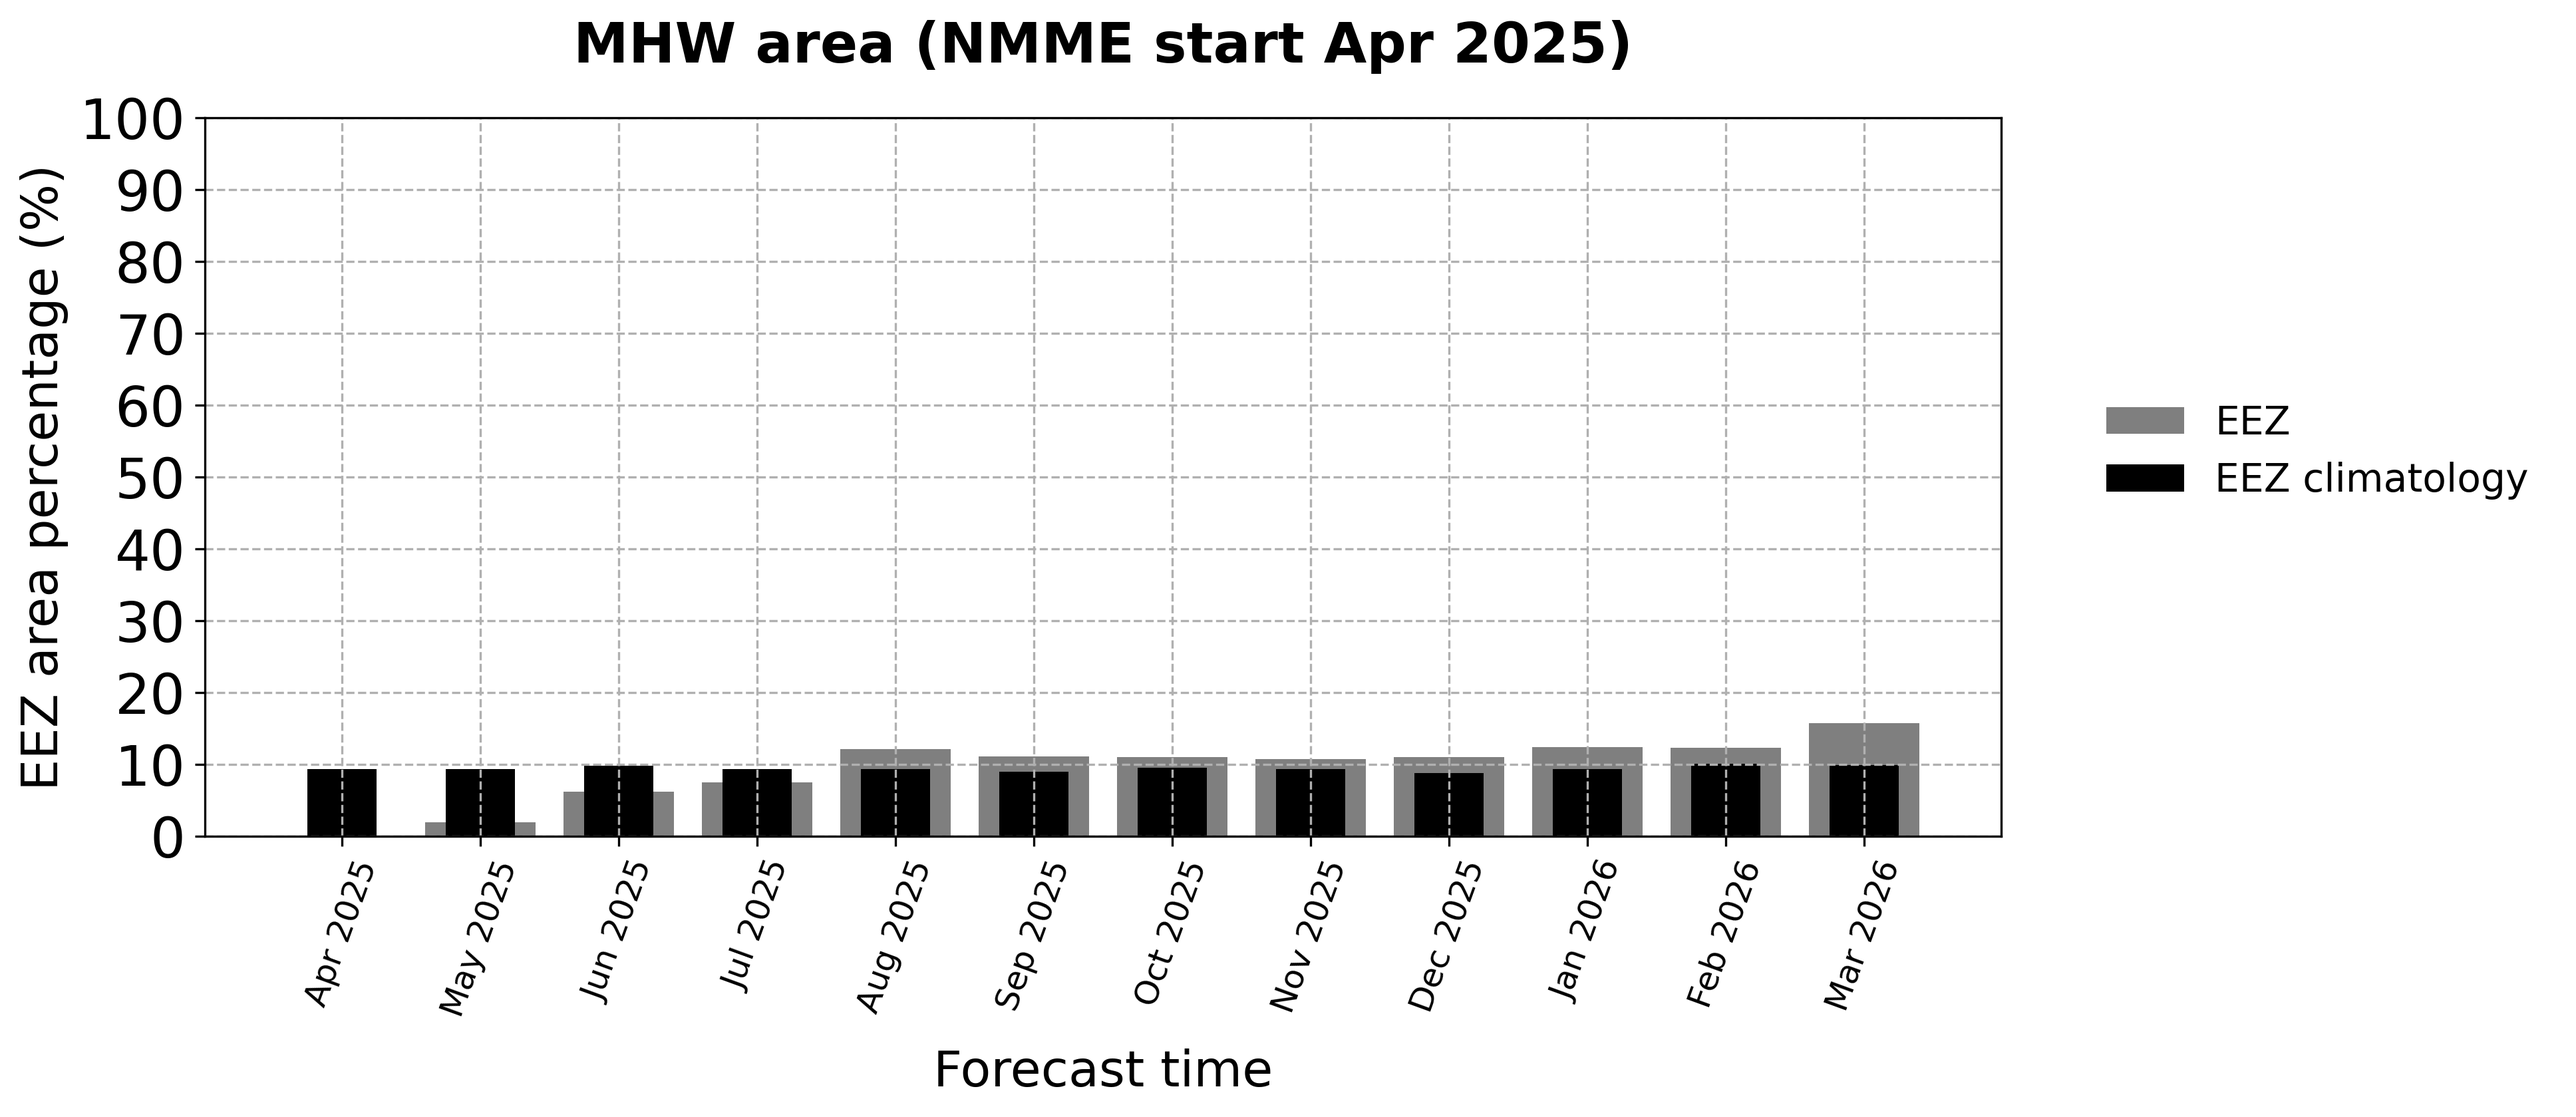
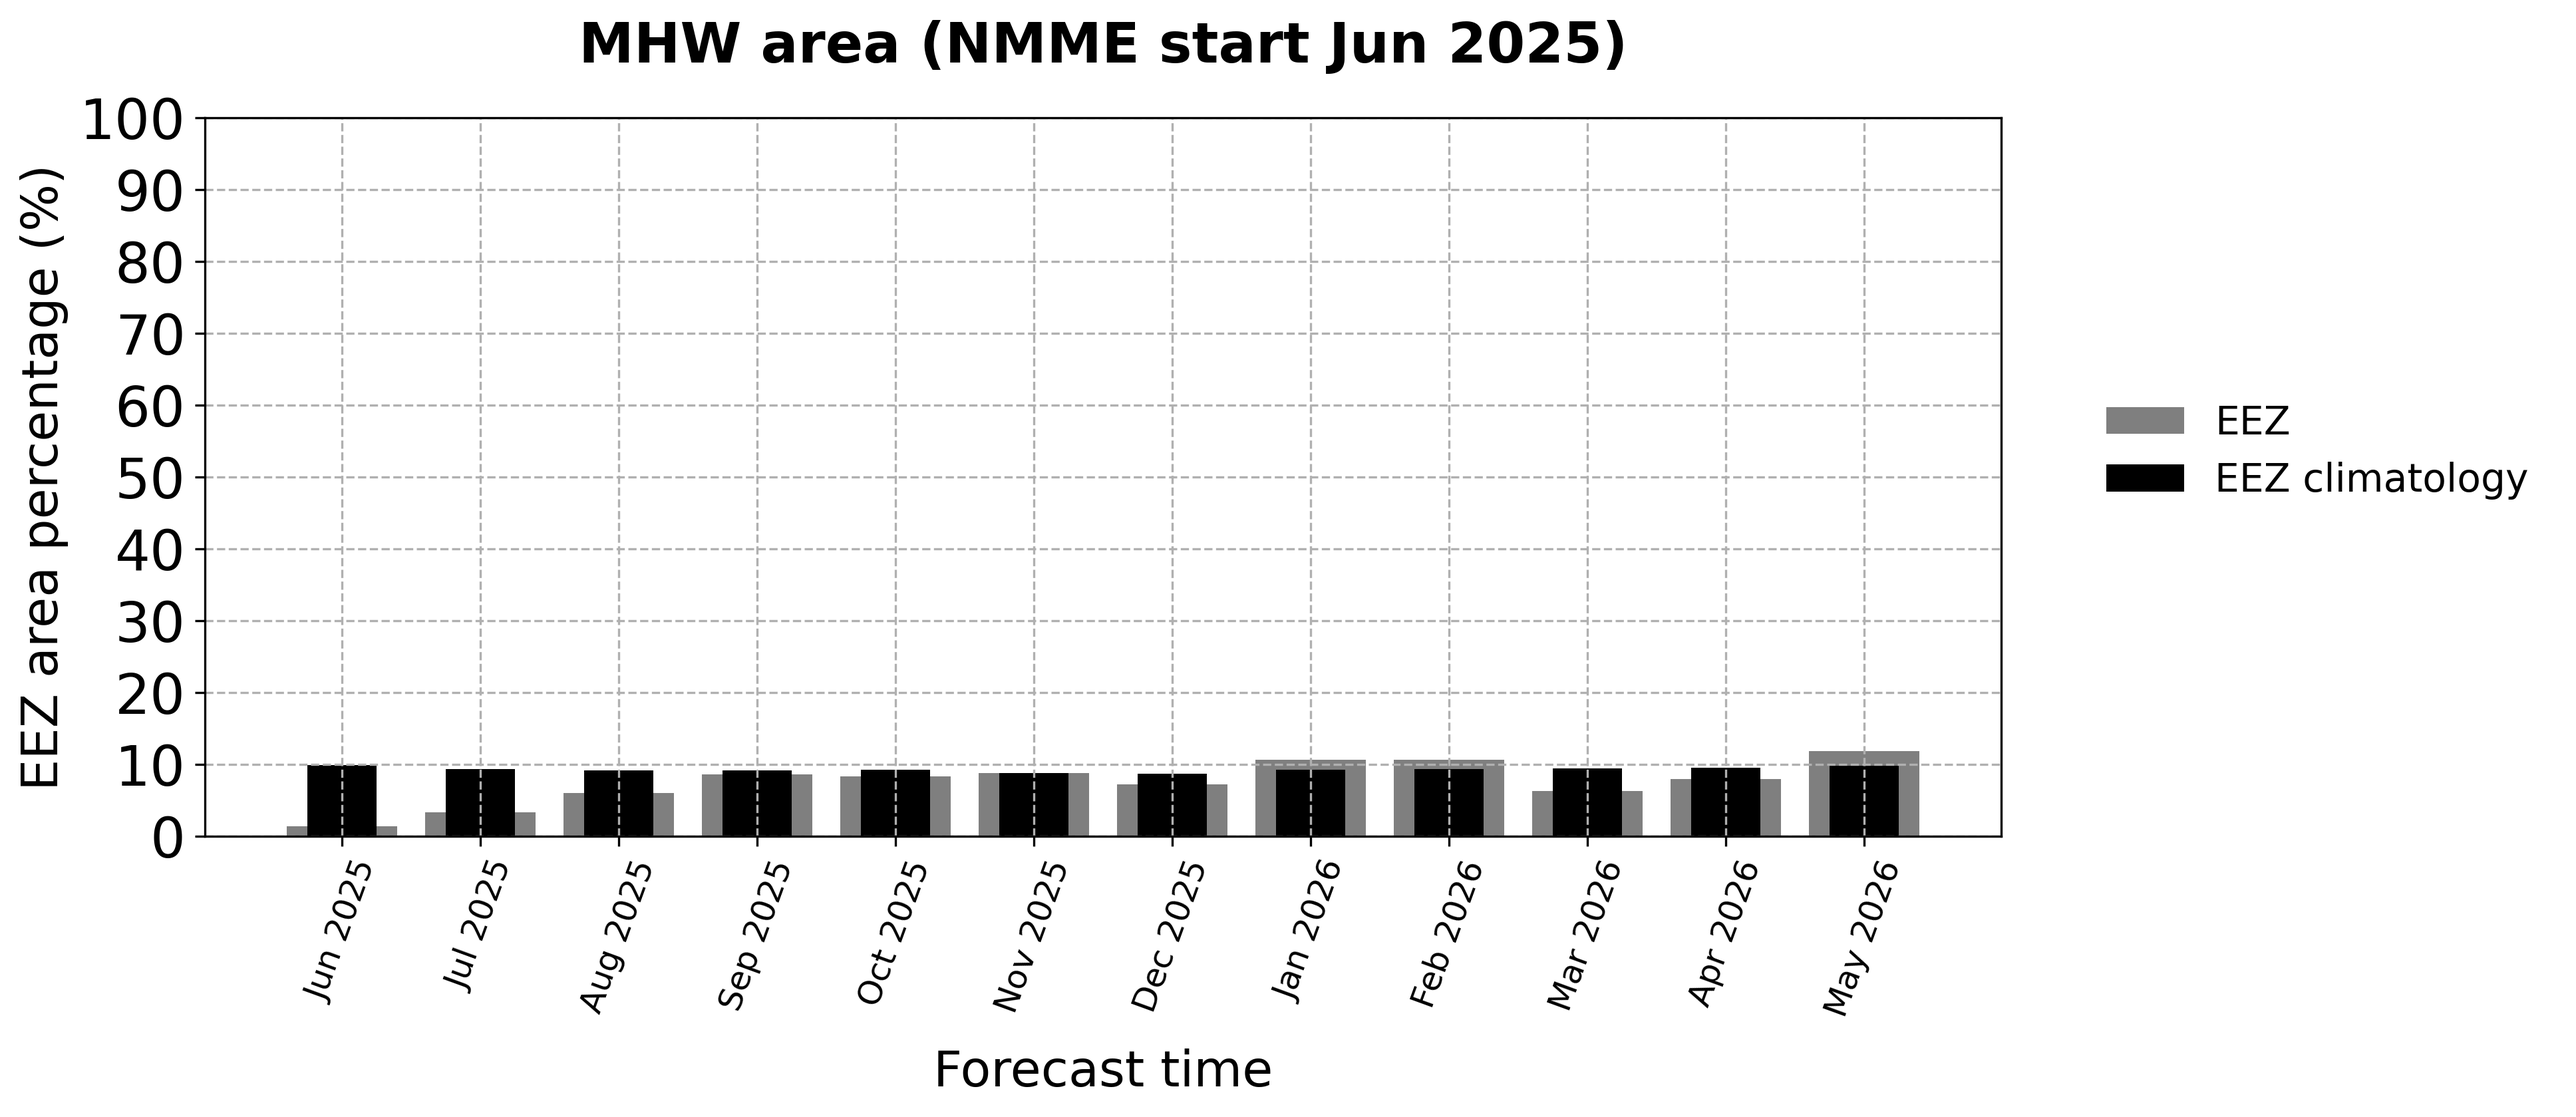
monthly update

diff --git a/mhw_report_new.html b/mhw_report_new.html
@@ -34,8 +34,8 @@
       </a>
     </div>
     <div class="col-sm-6">
-      <h5 class="align-right">Forecast initial time <strong>April 2025</strong> </h5>
-      <h5 class="align-right">Forecast period <strong>April 2025 - March 2026</strong> </h5> 
+      <h5 class="align-right">Forecast initial time <strong>June 2025</strong> </h5>
+      <h5 class="align-right">Forecast period <strong>June 2025 - May 2026</strong> </h5> 
       <div class="align-right-container">
         <a href="https://list.woc.noaa.gov/listinfo/psl.mhw.forecast ">
           <button type="button" id="emailListBtn" class="btn btn-psl">Sign up mailing list for monthly marine heatwaves discussion</button>
@@ -57,33 +57,33 @@
 
 <h4><em><strong>Current marine heatwave conditions:</strong></em></h4>
 <p>
-  In February 2025, 32% [17%] of the global ocean experienced marine heatwaves (MHWs), which ranked 16th [44th] among all months since 1991.  
+  In May 2025, 23% [11%] of the global ocean experienced marine heatwaves (MHWs), which ranked 31th [124th] among all months since 1991.  
 </p>
 <p>
-  The fraction of the globe experiencing MHWs changed little from January to February 2025. MHW patterns are still characteristic of La Niña, with warm water in the far western tropical Pacific extending both northeastward and southeastward across the subtropical Pacific. MHWs are also found across much of the North Pacific east of Japan, in the Sea of Japan, in the central South Pacific, the North Atlantic extending from the South American coast to the south of Iceland, the Caribbean Sea, Mediterranean Sea, parts of the Barents and Norwegian Seas, east of Madagascar in the Indian Ocean, around Australia and in the Indian sector of the Southern Ocean.
+  MHW patterns are still characteristic of La Niña, with warm water in the far western tropical Pacific extending both northeastward and southeastward across the subtropical Pacific. MHWs are also found across much of the North Pacific east of Japan, in the Sea of Japan, in the central South Pacific, parts of the North Atlantic west of Europe and in the North Sea, the Caribbean Sea, Mediterranean Sea, parts of  Norwegian Seas, around Australia and in the Indian sector of the Southern Ocean.
 </p>
 
 
 <h4><em><strong>Marine heatwave forecasts:</strong></em></h4>
 <p>
-  Forecasts predict that MHW coverage and overall intensity will decline slightly in the next couple of months, with approximately 27-31% [12-15%] of the global oceans experiencing MHW conditions over the 12-month forecast period. Below is a regionally refined focus:
+  Forecasts predict that MHW coverage and overall intensity will increase slightly in the next couple of months, with approximately 26-30% [12-14%] of the global oceans experiencing MHW conditions over the 12-month forecast period. Below is a regionally refined focus:
 
   <ul>
     
       <li>
-        <strong>Tropical/North Pacific</strong> - MHW likelihoods are low in the eastern tropical Pacific and along the North and South American west coasts through at least May 2025 (0-10% [0-10%]; high confidence). However, MHW likelihoods are high in the central/western North Pacific (70-90% [40-80%]; low-medium confidence) and to a lesser extent in the central/western South Pacific (40-80% [0-50%]; low-medium confidence). 
+        <strong>Tropical/North Pacific</strong> - MHW likelihoods are low in the eastern tropical Pacific and along the North and South American west coasts through at least August 2025 (0-20% [0-10%]; medium-high confidence). However, MHW likelihoods are high in the central/western North Pacific (60-80% [40-70%]; low-medium confidence) and in the central/western South Pacific (60-90% [0-30%]; low-medium confidence). 
       </li>
     
       <li>
-        <strong>Tropical/North Atlantic</strong> - Elevated chances of MHWs are forecasted into May 2025 in an arc extending from the Caribbean Sea/Tropical Atlantic to the eastern North Atlantic as far north as Iceland (50-80% [10-50%]); low-medium confidence).
+        <strong>Tropical/North Atlantic</strong> - Elevated chances of MHWs are forecasted into September 2025 extending from the Gulf of Mexico/Caribbean Sea to the eastern North Atlantic as far north as Iceland (30-60% [0-40%]); low-medium confidence).
       </li>
     
       <li>
-        <strong>Indian Ocean</strong> - Chances of MHW conditions are low over much of the Indian Ocean in May 2025 (<20% [<10%]), with the exception of the northern Bay of Bengal and Arabian Sea, where elevated likelihoods persist (40-70% [20-40%]; medium confidence).
+        <strong>Indian Ocean</strong> - Chances of MHW conditions are low over much of the north western Indian Ocean. However, MHWs are more likely in the eastern Indian Ocean through at least September 2025 (50-70% [20-40%]; high confidence). In contrast, existing MHW conditions east of Madagascar are projected to relax through September (medium-high confidence) 
       </li>
     
       <li>
-        <strong>Southern Ocean</strong> - Elevated chances of MHWs are predicted through May of 2025 for the Southern Ocean, primarily in a region southeast of Africa / southwest of Australia (70-100% [60-90%]; low-medium confidence).
+        <strong>Southern Ocean</strong> - Elevated chances of MHWs are predicted through September of 2025 for the Southern Ocean, primarily in a region southeast of Africa (80-100% [70-100%] low confidence) and south of Australia (70-100% [30-50%] low-medium confidence).
       </li>
     
   </ul>
